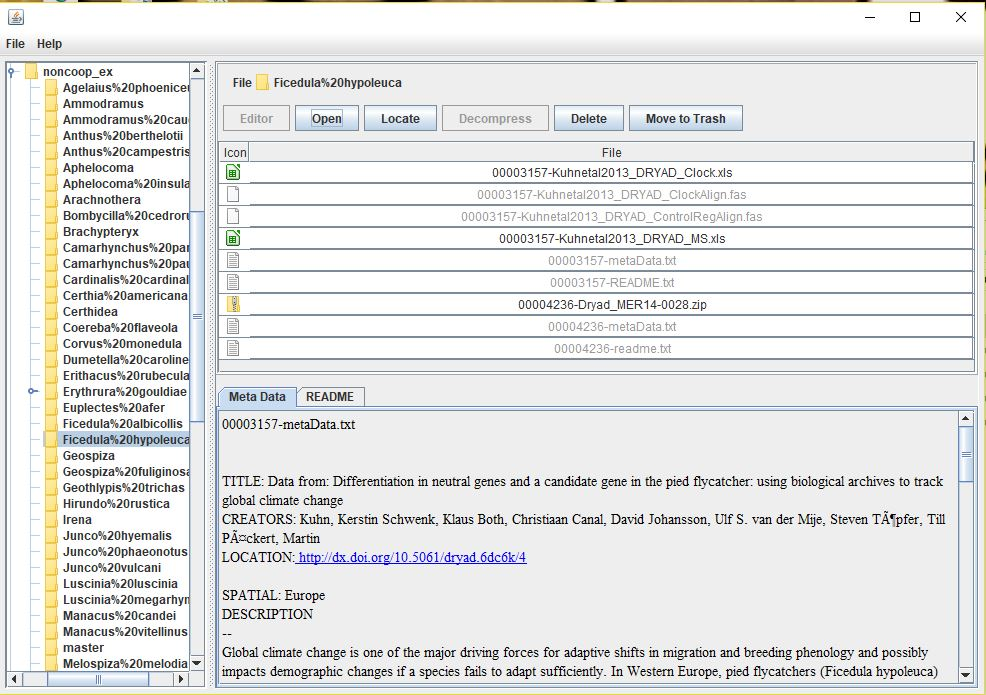
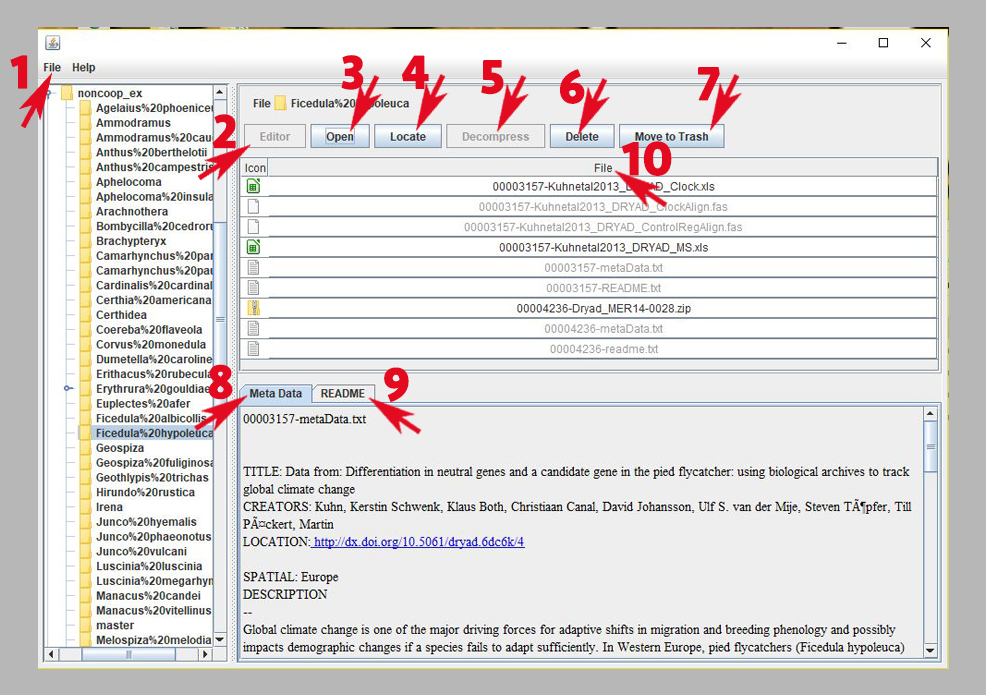
chang fast convet error message, update help menu pictures

diff --git a/data/src/Resources/EditorHelpPage.html b/data/src/Resources/EditorHelpPage.html
@@ -3,7 +3,7 @@
 <body>
 	<div style="position: relative;font-family:Arial;font-size: 12px;">
 		<p>1. File: the "Convert" in "File" menu will open PGDSpider for users to conver the file type.</p>
-		<p>2. Split: there are several split methods provided in "Split" menu if the file is not in proper format, the file could be split into columns by comma, space, tab, semicolon, line ( "Line" allow users to display the file by line).</p>
+		<p>2. Split: there are several split methods provided in "Split" menu if the file is not in proper format, the file could be split into columns by comma, space, tab, semicolon, line (If the file's type is xlsx or xls, the split menu is hidden).</p>
 		<p>3. General functions:</p>
 		<ul>
 			<li>Replace missing data: replace the missing data with the given data.</li>
@@ -37,7 +37,7 @@
 
 	<p style="font-family:Arial">Windows</p>
 	<div id="windows">
-    	<img src="editorWindows.JPG" alt="directory" width="970" height="750"  max-width: 100%;
+    	<img src="editorWindows.jpg" alt="directory" width="970" height="750"  max-width: 100%;
 	    max-height: 100%;">
     </div>
     <br><br><br>

diff --git a/data/src/Resources/DirectoryHelpPage.html b/data/src/Resources/DirectoryHelpPage.html
@@ -27,7 +27,7 @@
 
 	<p style="font-family:Arial">Windows</p>
     <div id="windows">
-    	<img src="directoryWindows.JPG" alt="directory" width="970" height="750"  max-width: 100%;
+    	<img src="directoryWindows.jpg" alt="directory" width="970" height="750"  max-width: 100%;
 	    max-height: 100%;">
     </div>
 </body>

diff --git a/data/src/project/FastConvert.java b/data/src/project/FastConvert.java
@@ -243,7 +243,7 @@ public class FastConvert
 				catch (IOException e) 
 				{
 					e.printStackTrace();
-					JOptionPane.showConfirmDialog(null,"Can't open PGDSpider!", "Error", JOptionPane.CLOSED_OPTION);
+					JOptionPane.showConfirmDialog(null,"Can't open PGDSpider! Please check if the PGDSpider2-cli is in the same folder with data2-1.", "Error", JOptionPane.CLOSED_OPTION);
 				}
 			}
 		}
@@ -270,15 +270,10 @@ public class FastConvert
 		try 
 		{
 			Process pros = Runtime.getRuntime().exec(commandLine);
-			/*OutputStream out = pros.getOutputStream();
-			InputStream in = pros.getInputStream();
-			InputStream err = pros.getErrorStream();
-			String result = readInputStream(in)+readInputStream(err);
-			System.out.println(result);	*/
 		} 
 		catch (IOException e) 
 		{
-			JOptionPane.showConfirmDialog(null,"Can't open PGDSpider!", "Error2", JOptionPane.CLOSED_OPTION);
+			JOptionPane.showConfirmDialog(null,"Can't open PGDSpider! Please check if the PGDSpider2 is in the same folder with data2-1.", "Error2", JOptionPane.CLOSED_OPTION);
 		}
 	}
 	
